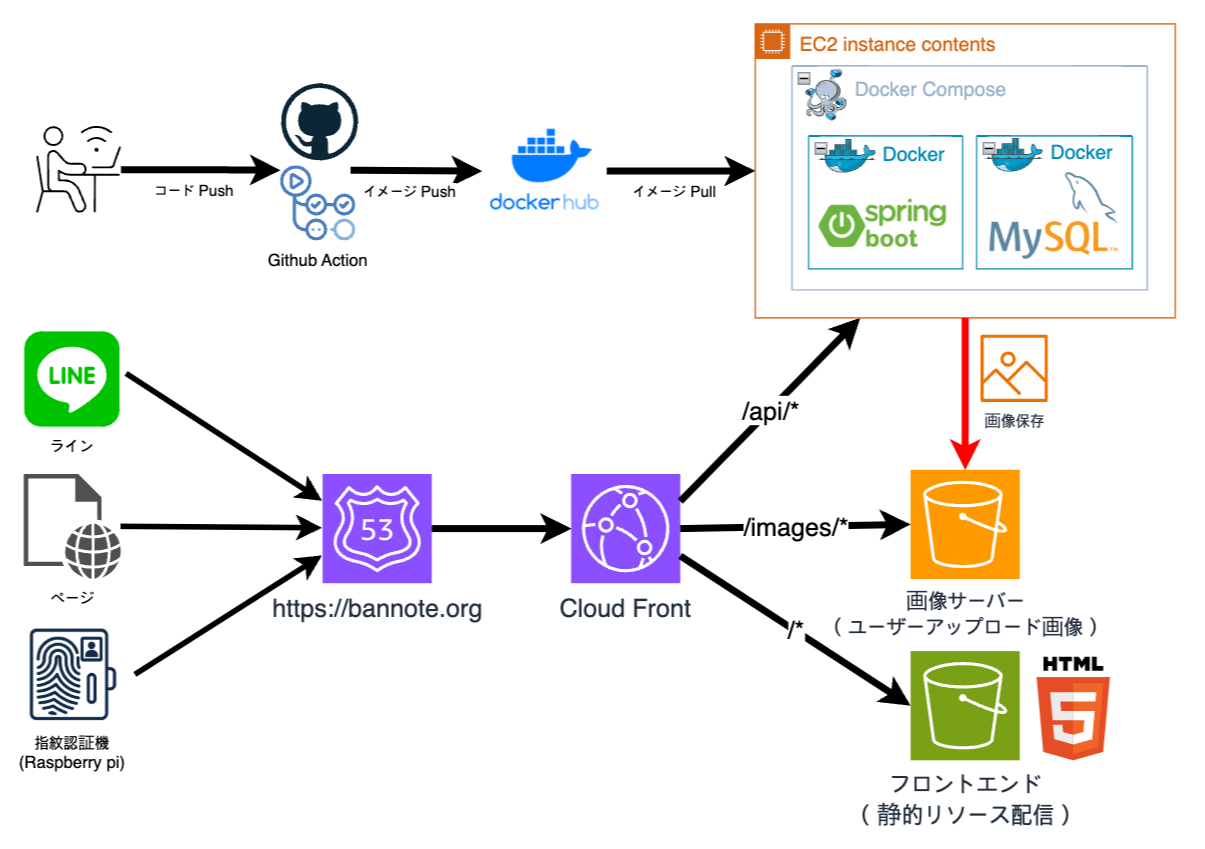
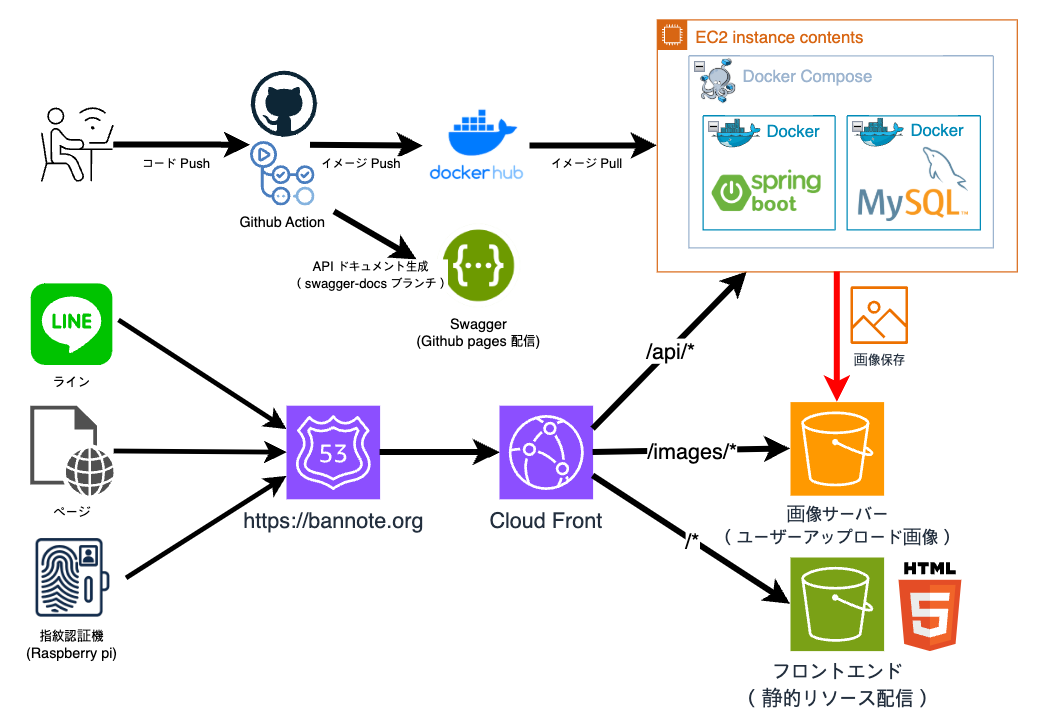
Update README
- 구조도 사진 변경
- api 문서 추가

diff --git a/README_ko.md b/README_ko.md
@@ -17,9 +17,11 @@
 
 [3. 프로젝트 구조](#프로젝트-구조)
 
-[4. 향후 확장 계획](#향후-확장-계획)
+[4. API 문서](#api-문서)
 
-[5. 폐쇄된 기능](#폐쇄된-기능)
+[5. 향후 확장 계획](#향후-확장-계획)
+
+[6. 폐쇄된 기능](#폐쇄된-기능)
 
 # 프로젝트 개요
 
@@ -67,6 +69,13 @@
 # 프로젝트 구조
 
 ![프로젝트 구조도](assets/architecture-overview_ko.png)
+
+# API 문서
+
+API 명세는 Swagger 문서로 자동 생성되며, 아래 링크에서 확인할 수 있습니다.  
+본 문서는 GitHub Actions를 통해 GitHub Pages로 자동 배포되며, 항상 최신 상태로 유지됩니다.
+
+🔗 [Swagger UI 문서 보기](https://kyumin1227.github.io/Fingerprint_Backend)
 
 # 향후 확장 계획
 
